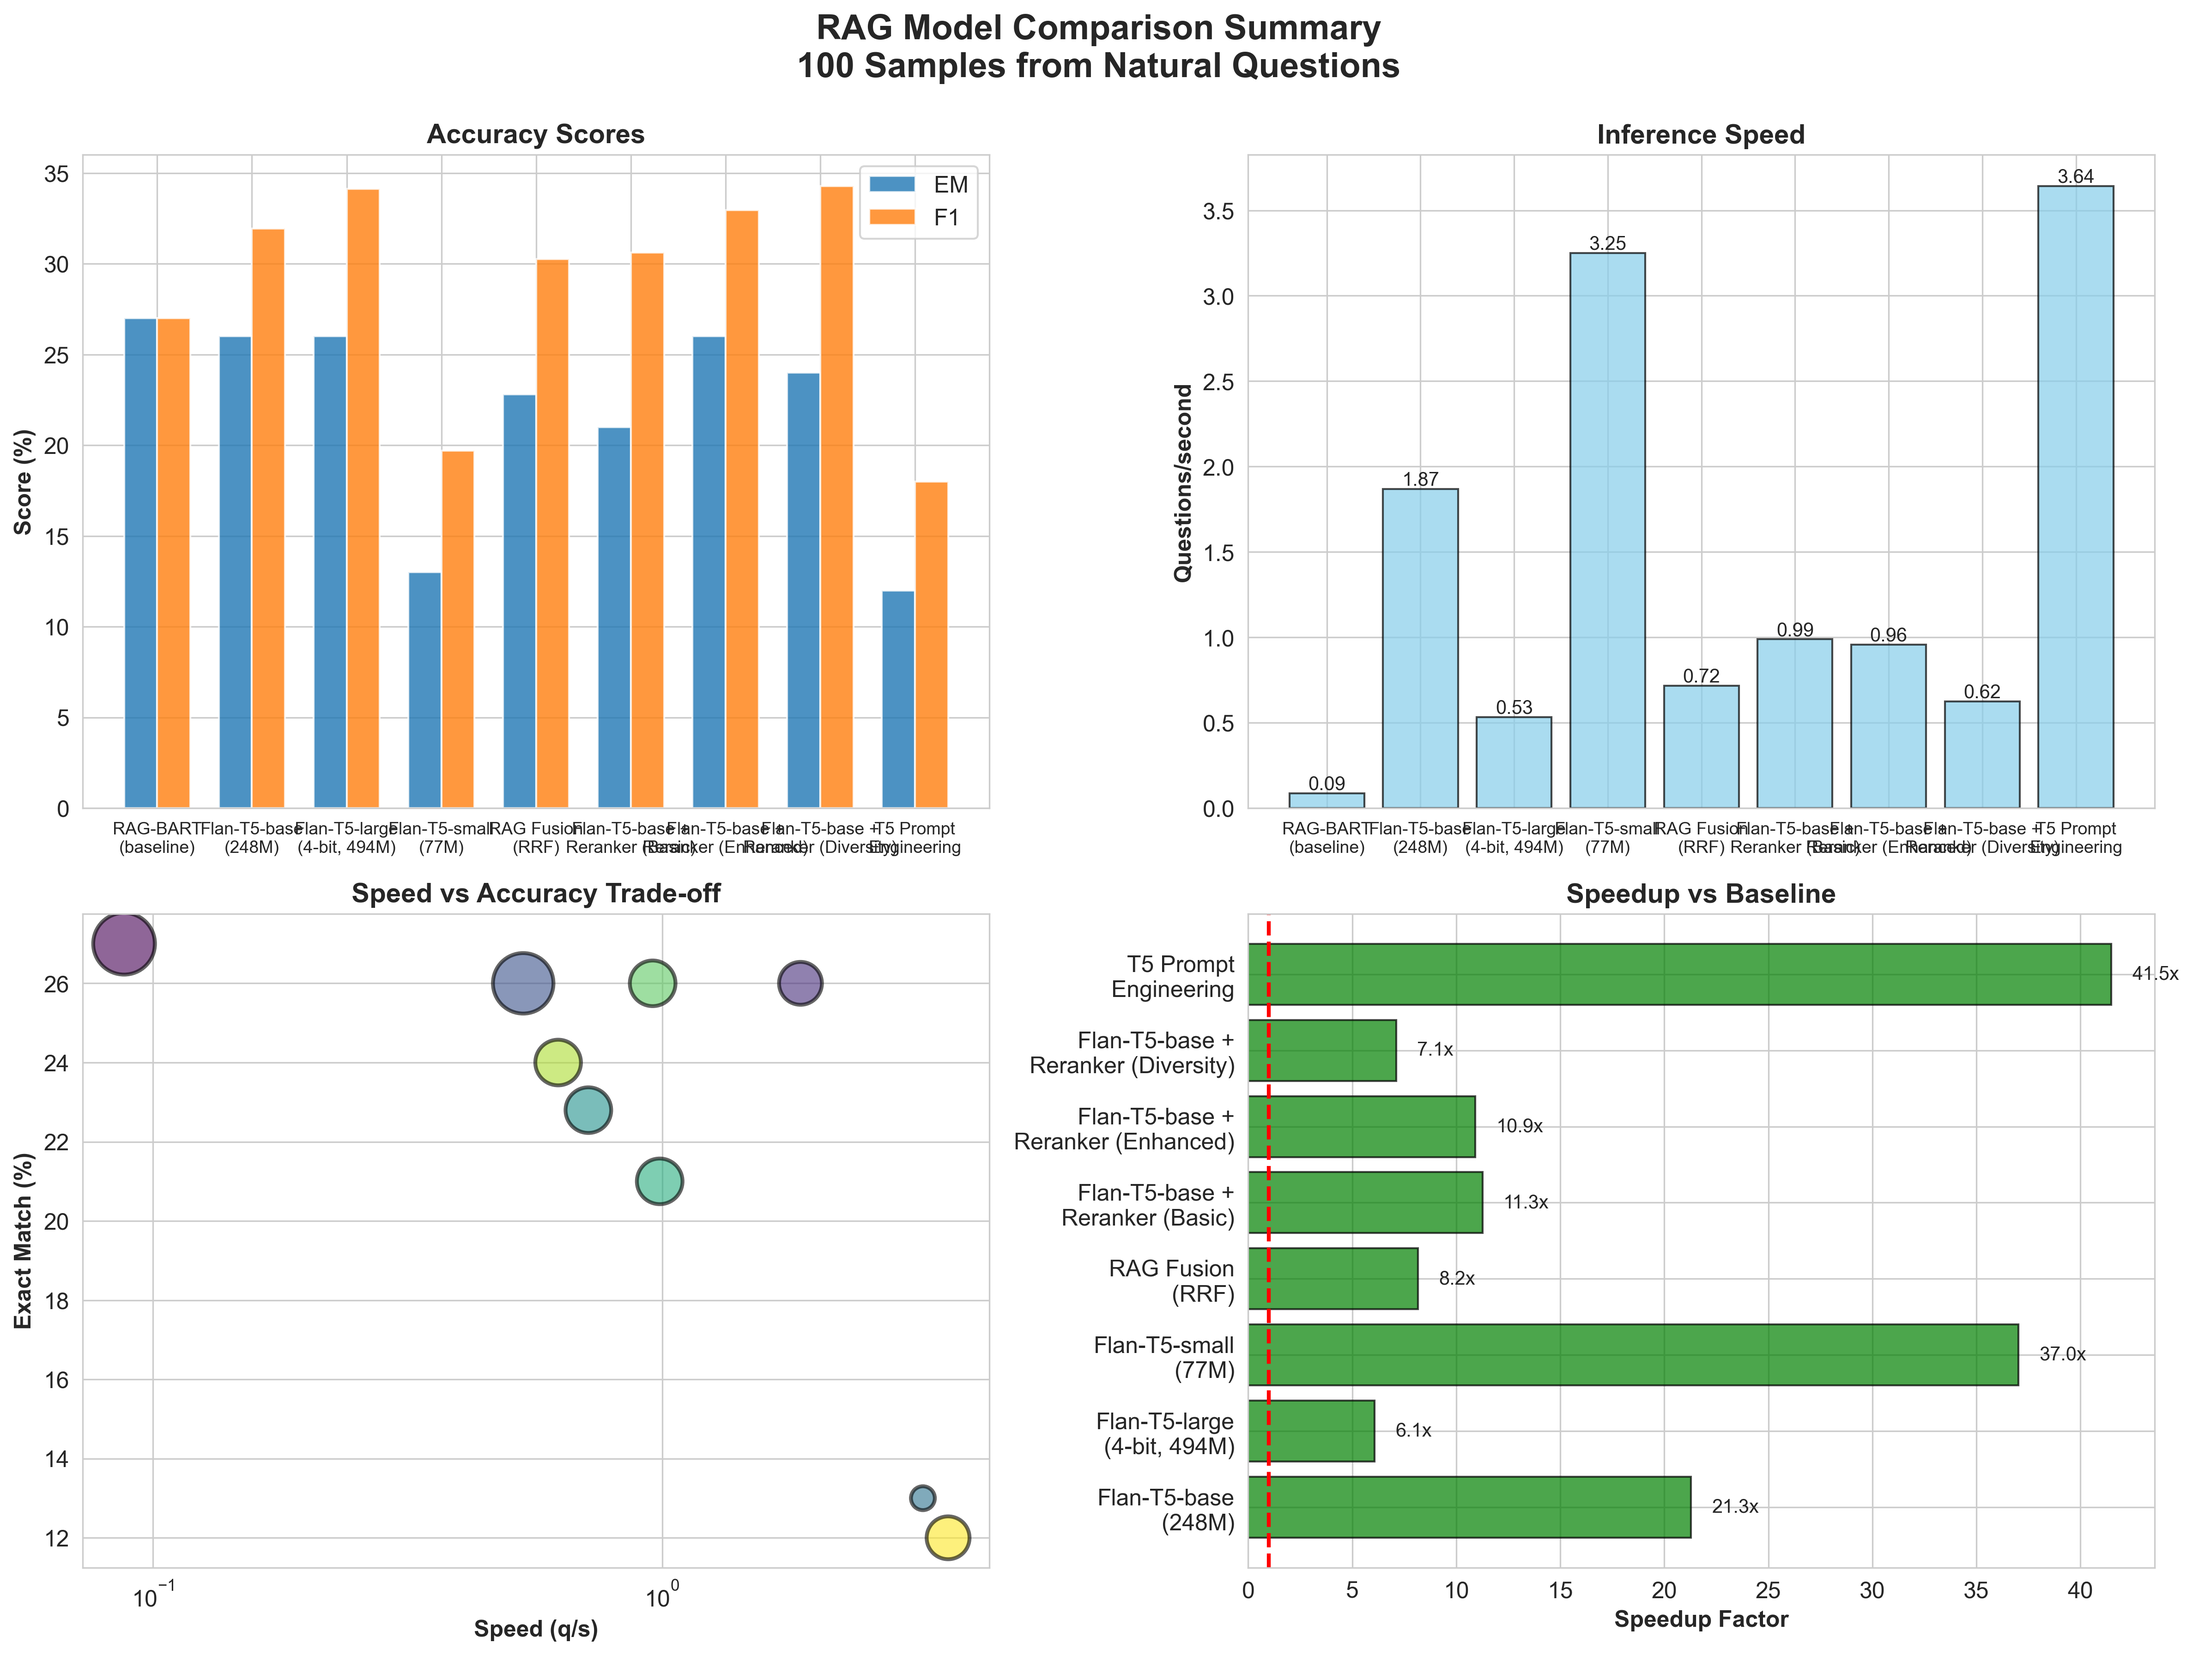
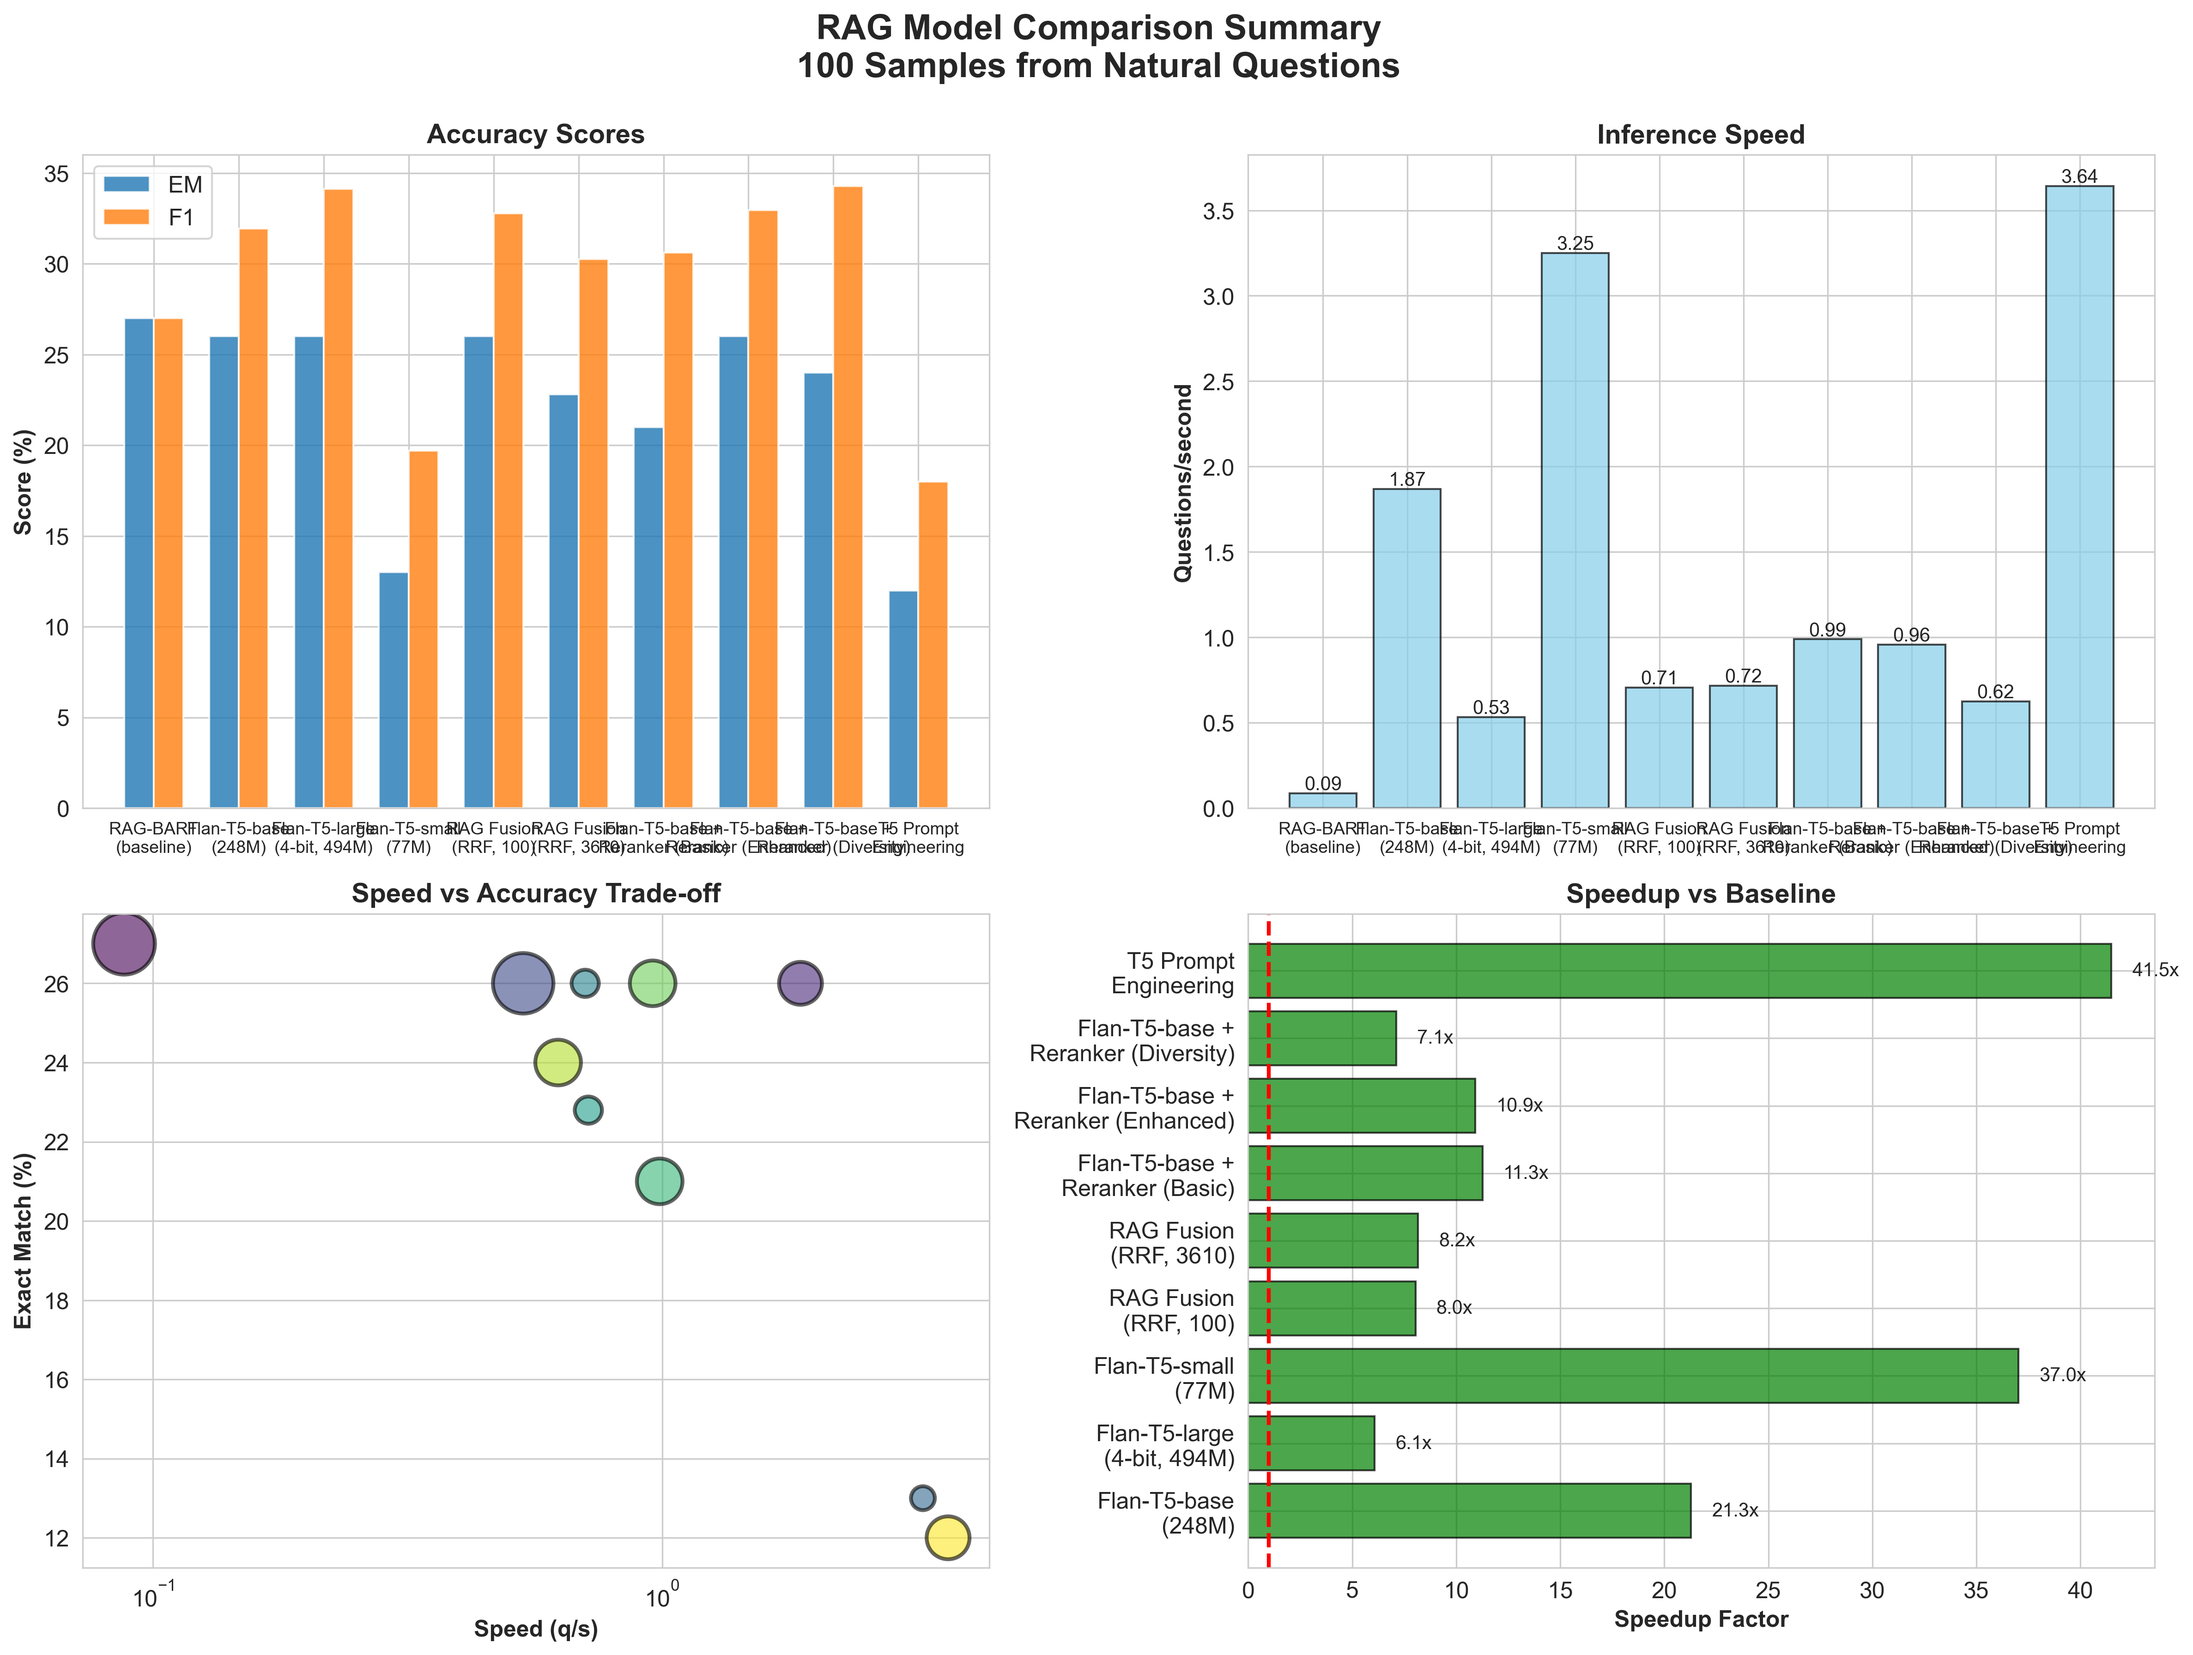
add visualization for fusion 100 and 3610

diff --git a/analysis/visualize_results.py b/analysis/visualize_results.py
@@ -58,8 +58,10 @@ def load_all_results():
                 results['Flan-T5-large\n(4-bit, 494M)'] = data
             elif filename == 't5_prompt_100':
                 results['T5 Prompt\nEngineering'] = data
-            elif filename == 'rag_fusion_results' or filename == 'rag_fusion_100':
-                results['RAG Fusion\n(RRF)'] = data
+            elif filename == 'rag_fusion_results':
+                results['RAG Fusion\n(RRF, 3610)'] = data
+            elif filename == 'rag_fusion_100':
+                results['RAG Fusion\n(RRF, 100)'] = data
 
         except (json.JSONDecodeError, KeyError) as e:
             print(f"Warning: Could not load {json_file}: {e}")
